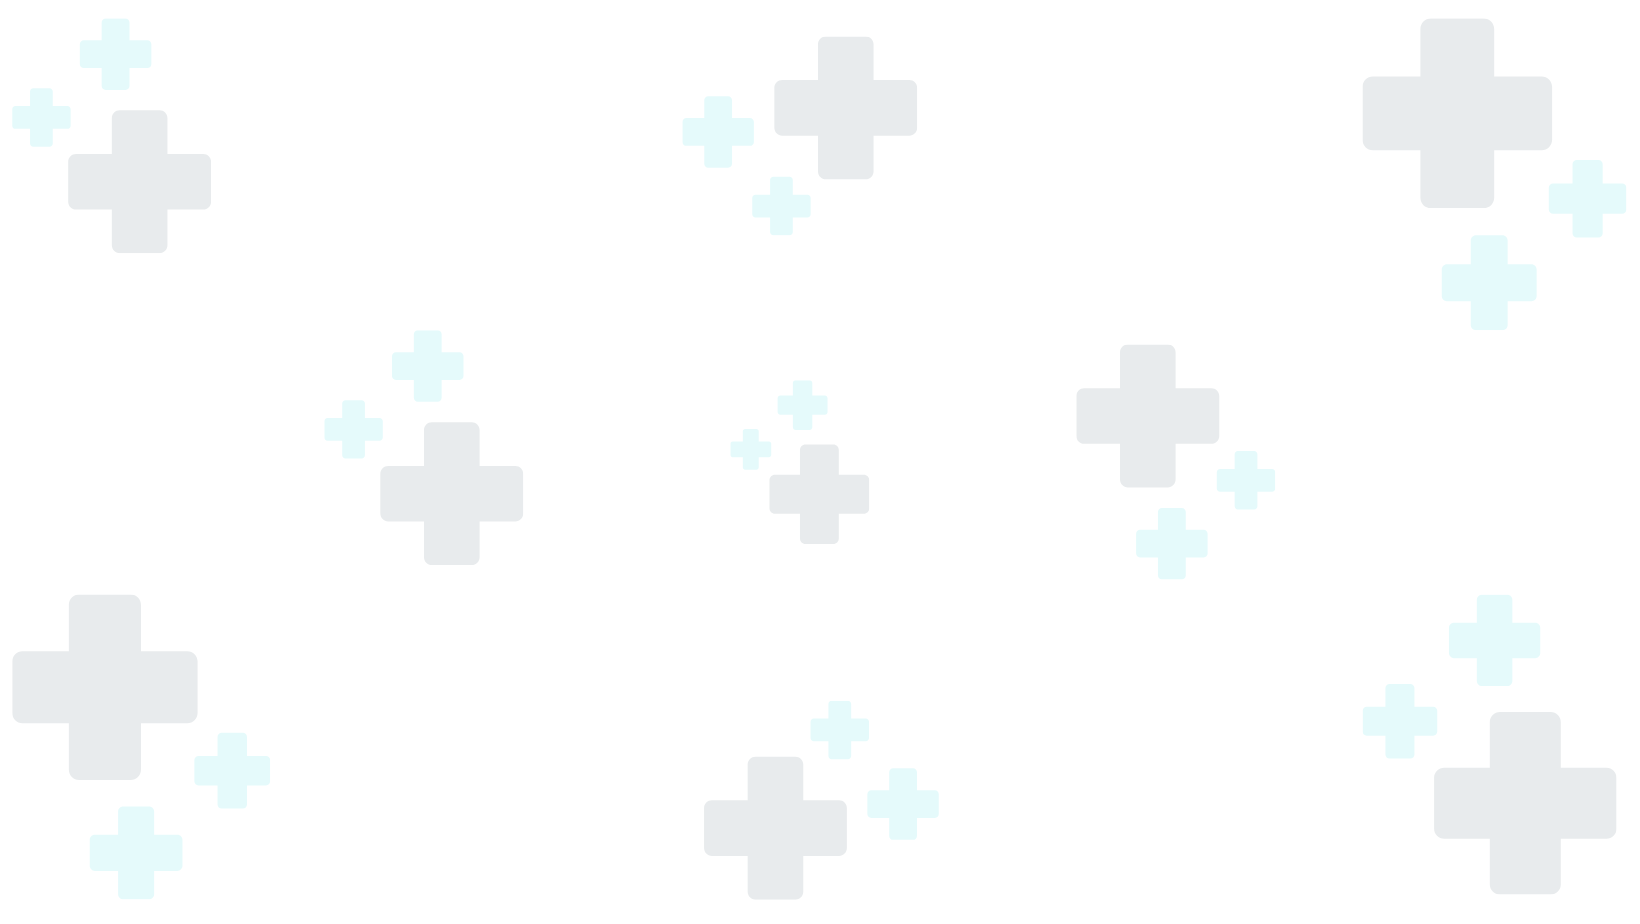
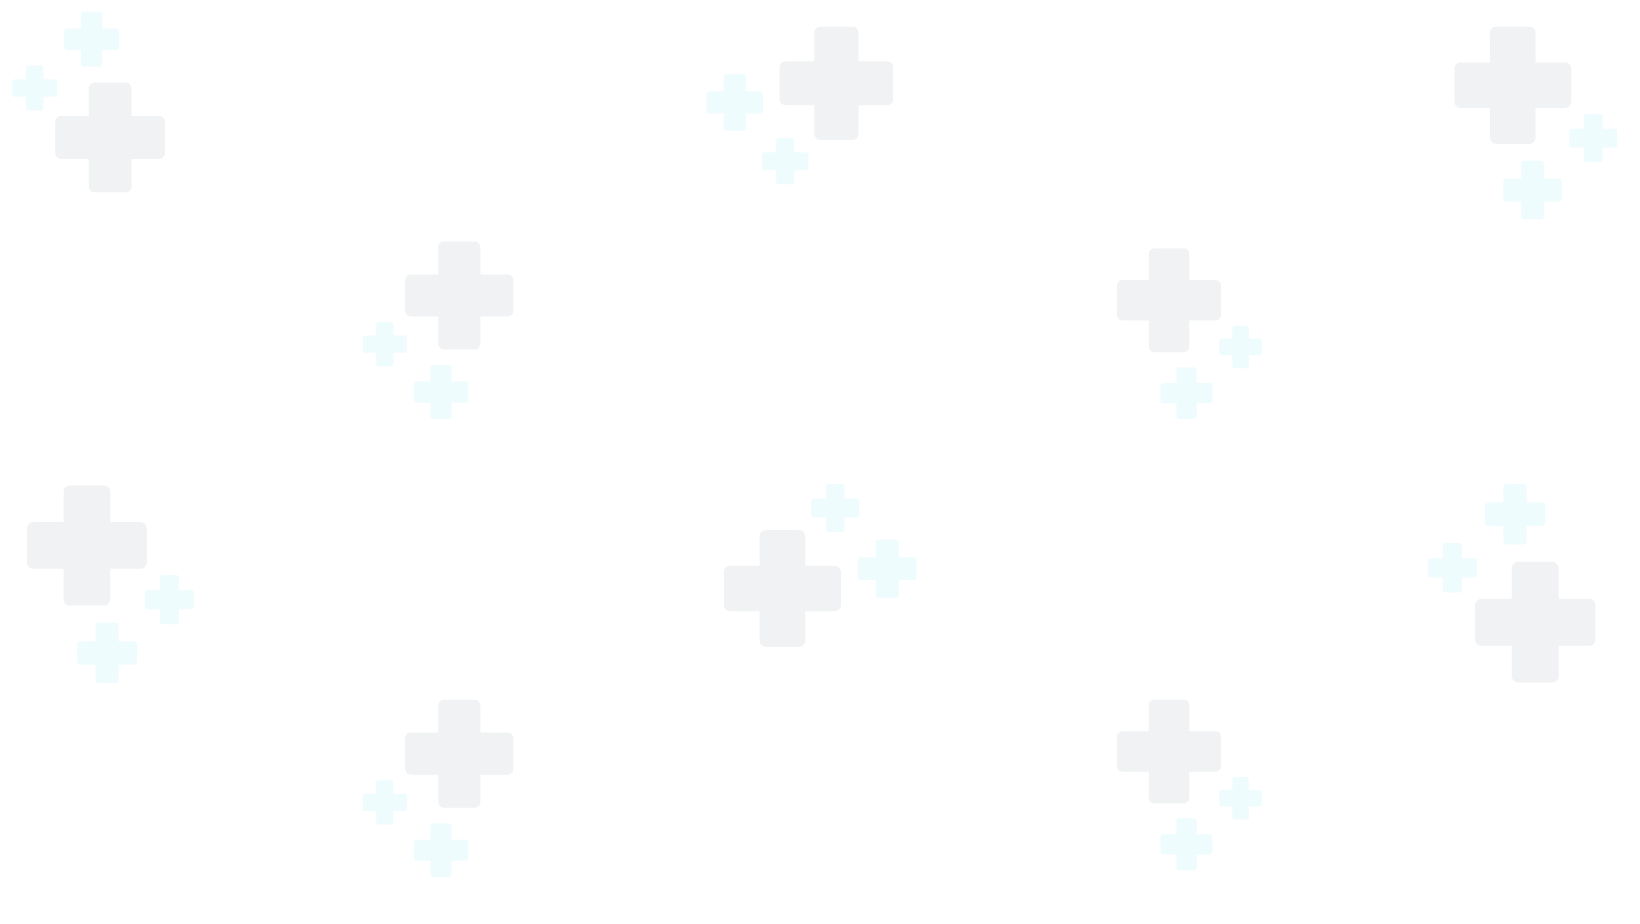
ok

diff --git a/app/assets/stylesheets/pages/_index.scss b/app/assets/stylesheets/pages/_index.scss
@@ -3,6 +3,10 @@
 
 body {
   background-image: image-url("fundo.png");
+  background-repeat:repeat;
+  background-size: contain;
+  background-position: center;
+  padding-top: 100px;
 }
 
 .row.carousel-dark {
@@ -33,11 +37,24 @@ body {
 }
 .flex-container {
   display: flex;
-  align-items: center;
+  align-items: flex-end;
 }
 
-.text {
-  padding: 20px;
+.align-junte {
+  padding-top: 35px;
+  text-align: center;
+}
+.align-junte-info {
+  text-align: center;
+}
+.align-historia {
+  padding-top: 80px;
+  text-align: center;
+  margin-left: 50px;
+}
+.align-historia-info {
+  text-align: center;
+  margin-left: 50px;
 }
 
 .align-right {
@@ -60,4 +77,80 @@ body {
   align-items: center;
   justify-content: center;
   overflow: hidden;
+}
+.accordion-collapse {
+  background-color: #FAFAFA;
+}
+
+.accordion-button {
+  background-color: #EBEEEC;
+}
+
+.c-button {
+  color: #000;
+  font-weight: 700;
+  font-size: 16px;
+  text-decoration: none;
+  padding: 0.9em 1.6em;
+  cursor: pointer;
+  display: inline-block;
+  vertical-align: middle;
+  position: relative;
+  z-index: 1;
+  margin-left: 250px;
+}
+
+
+.c-button--gooey {
+  color: #64B6AC;
+  text-transform: uppercase;
+  letter-spacing: 2px;
+  border: 4px solid #64B6AC;
+  border-radius: 0;
+  position: relative;
+  transition: all 700ms ease;
+}
+
+.c-button--gooey .c-button__blobs {
+  height: 100%;
+  filter: url(#goo);
+  overflow: hidden;
+  position: absolute;
+  top: 0;
+  left: 0;
+  bottom: -3px;
+  right: -1px;
+  z-index: -1;
+}
+
+.c-button--gooey .c-button__blobs div {
+  background-color: #64B6AC;
+  width: 34%;
+  height: 100%;
+  border-radius: 100%;
+  position: absolute;
+  transform: scale(1.4) translateY(125%) translateZ(0);
+  transition: all 700ms ease;
+}
+
+.c-button--gooey .c-button__blobs div:nth-child(1) {
+  left: -5%;
+}
+
+.c-button--gooey .c-button__blobs div:nth-child(2) {
+  left: 30%;
+  transition-delay: 60ms;
+}
+
+.c-button--gooey .c-button__blobs div:nth-child(3) {
+  left: 66%;
+  transition-delay: 25ms;
+}
+
+.c-button--gooey:hover {
+  color: #fff;
+}
+
+.c-button--gooey:hover .c-button__blobs div {
+  transform: scale(1.4) translateY(0) translateZ(0);
 }

diff --git a/app/assets/stylesheets/components/_footer.scss b/app/assets/stylesheets/components/_footer.scss
@@ -3,7 +3,7 @@
   display: flex;
   align-items: center;
   justify-content: space-between;
-  height: 100px;
+  height: 60px;
   padding: 0px 50px;
   color: rgba(0,0,0,0.3);
   position: fixed;
@@ -29,8 +29,11 @@
   opacity: 1;
 }
 
-.footer .fa-heart {
-  color: #D23333;
+.footer-content img {
+  width: 50px;
+  height: auto;
+  margin-right: 5px;
+  margin-left: 600px;
 }
 
 .footer-content {

diff --git a/app/assets/stylesheets/components/_navbar.scss b/app/assets/stylesheets/components/_navbar.scss
@@ -26,10 +26,15 @@
 }
 
 .navbar-items {
-width: 70%;
+width: 50%;
+display: flex;
 align-items: center;
+justify-content: center;
+color:aqua;
 }
 .navbar-items ul > li {
-  margin-right: 150px;
+  margin-right: 100px;
+  display: flex;
   align-items: center;
+  justify-content: center;
 }

diff --git a/app/controllers/pages_controller.rb b/app/controllers/pages_controller.rb
@@ -1,5 +1,5 @@
 class PagesController < ApplicationController
-  before_action :authenticate_user!, only: :home
+  skip_before_action :authenticate_user!, only: :index
   def home
     @appointments = current_user.appointments.order(:time)
   end

diff --git a/config/routes.rb b/config/routes.rb
@@ -3,6 +3,7 @@ Rails.application.routes.draw do
   root to: "pages#index"
   get "/home", to: "pages#home"
 
+
   # Define your application routes per the DSL in https://guides.rubyonrails.org/routing.html
 
   # Defines the root path route ("/")
